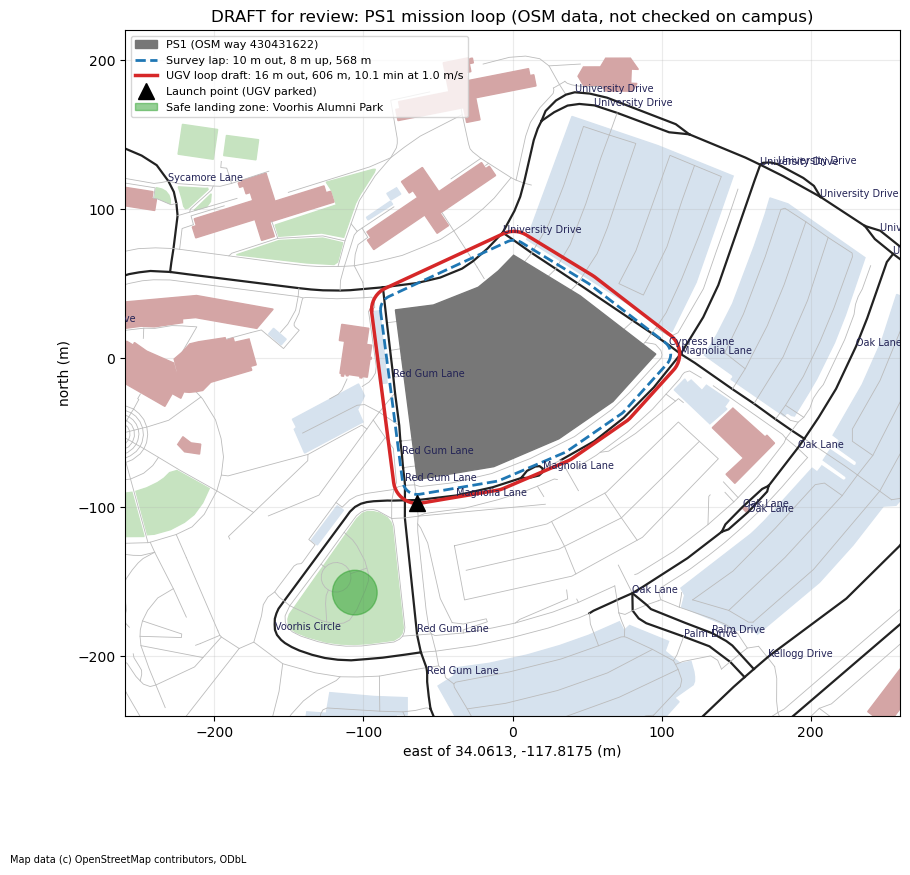
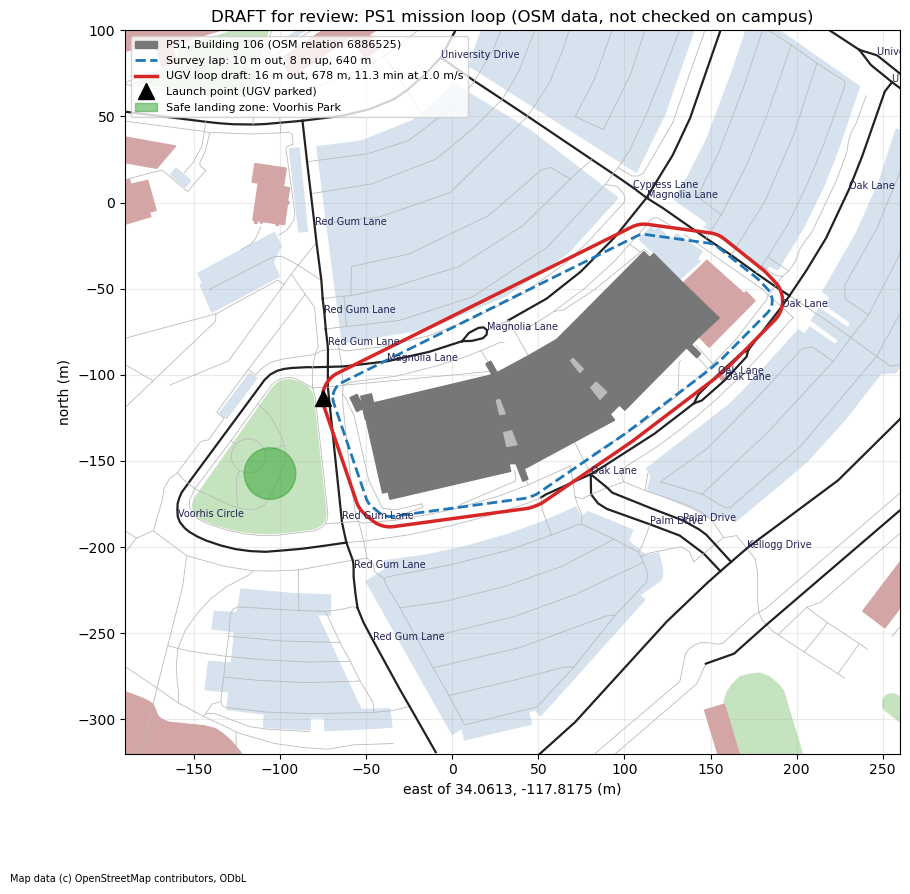
MISSION_LOOP: second route draft around the real Parking Structure 1 (Building 106), abort at 30 m

diff --git a/docking/MISSION_LOOP.md b/docking/MISSION_LOOP.md
@@ -8,7 +8,7 @@ D3, the scored docking comparison, is the senior project and stays as it is. Thi
 
 ## The sortie
 
-Five phases, in order, none skipped. A failed phase ends the sortie: the drone climbs above PS1, flies to the safe landing zone in Voorhis Alumni Park and lands.
+Five phases, in order, none skipped. A failed phase ends the sortie: the drone climbs to 30 m (above PS1's 22 m towers), flies to the safe landing zone in Voorhis Park and lands.
 
 | Phase | What happens | Passes when (starting proposals) |
 |---|---|---|
@@ -26,7 +26,9 @@ The whole sortie has a 10-minute limit, standing in for the battery. The markers
 
 ![Draft mission loop around PS1](./img/mission_loop_draft.png)
 
-Drawn from OpenStreetMap, not checked on campus. The UGV loop (red, 606 m, about 10 minutes at 1.0 m/s) runs along Red Gum Lane, University Drive and Magnolia Lane; its east side crosses ground where the map shows only service roads. **To check on campus:** whether that east side is drivable, whether the roads can be used at all with campus traffic, and whether Voorhis Alumni Park works as the safe landing zone. PS1's heights (6 decks, about 3 m apart, roof about 15 m) are estimates until someone measures them.
+Second draft, drawn from OpenStreetMap around Building 106 (the structure Google Maps calls "Magnolia Ln Parking") and Building 109 at its north-east end. Not checked on campus. The UGV loop (red, 678 m, about 11 minutes at 1.0 m/s) runs along Red Gum Lane, Oak Lane and Magnolia Lane. The launch point is on Red Gum Lane; the safe landing zone is Voorhis Park, across the road.
+
+**PS1's size:** 12,103 m² footprint (about 782,000 sq ft over six decks) and 21.8 m to its highest point, from LA County data in OSM. The deck heights (about 3.4 m apart, roof deck about 17 m) are estimates until measured. **To check on campus:** whether the roads can be used with campus traffic, and whether Voorhis Park works as the safe landing zone.
 
 ## Competitions
 
